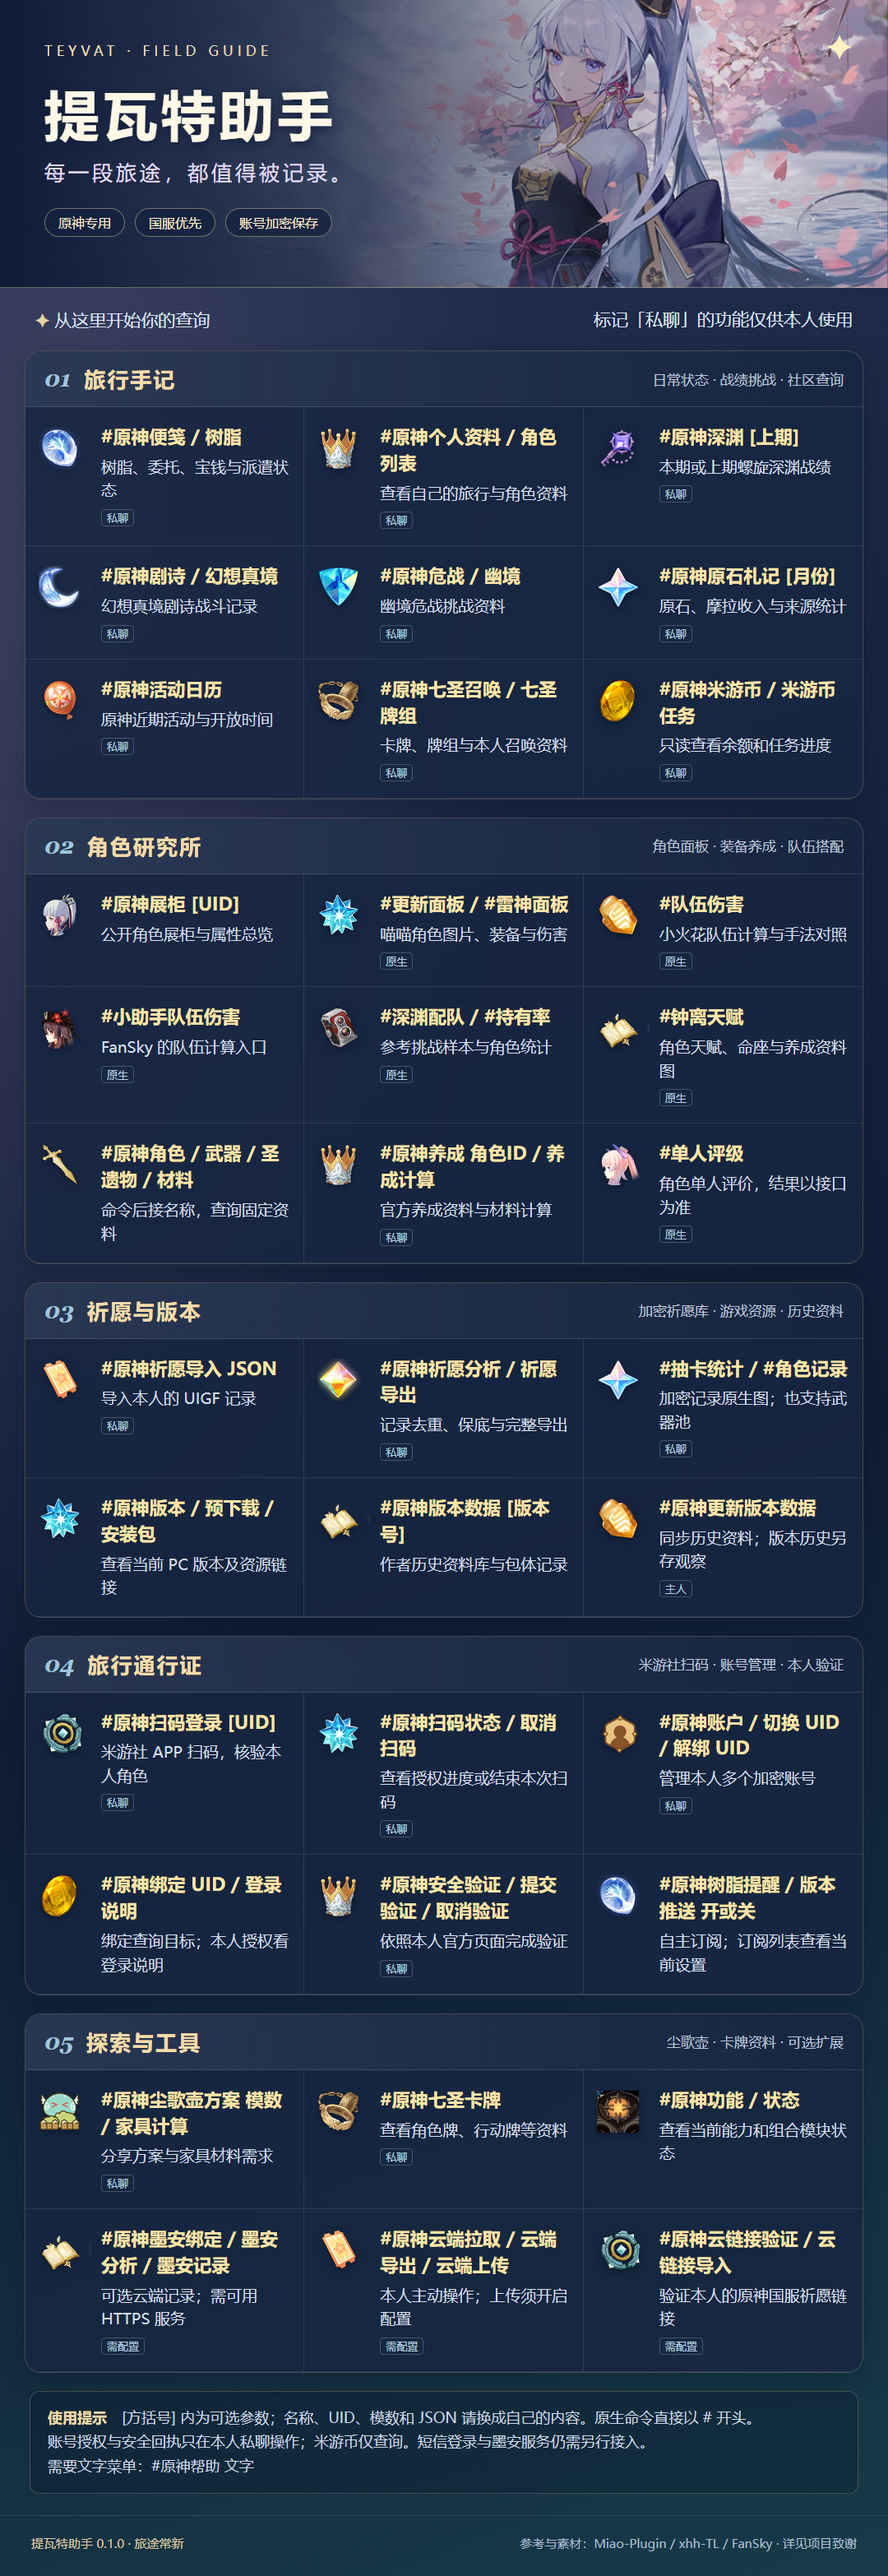
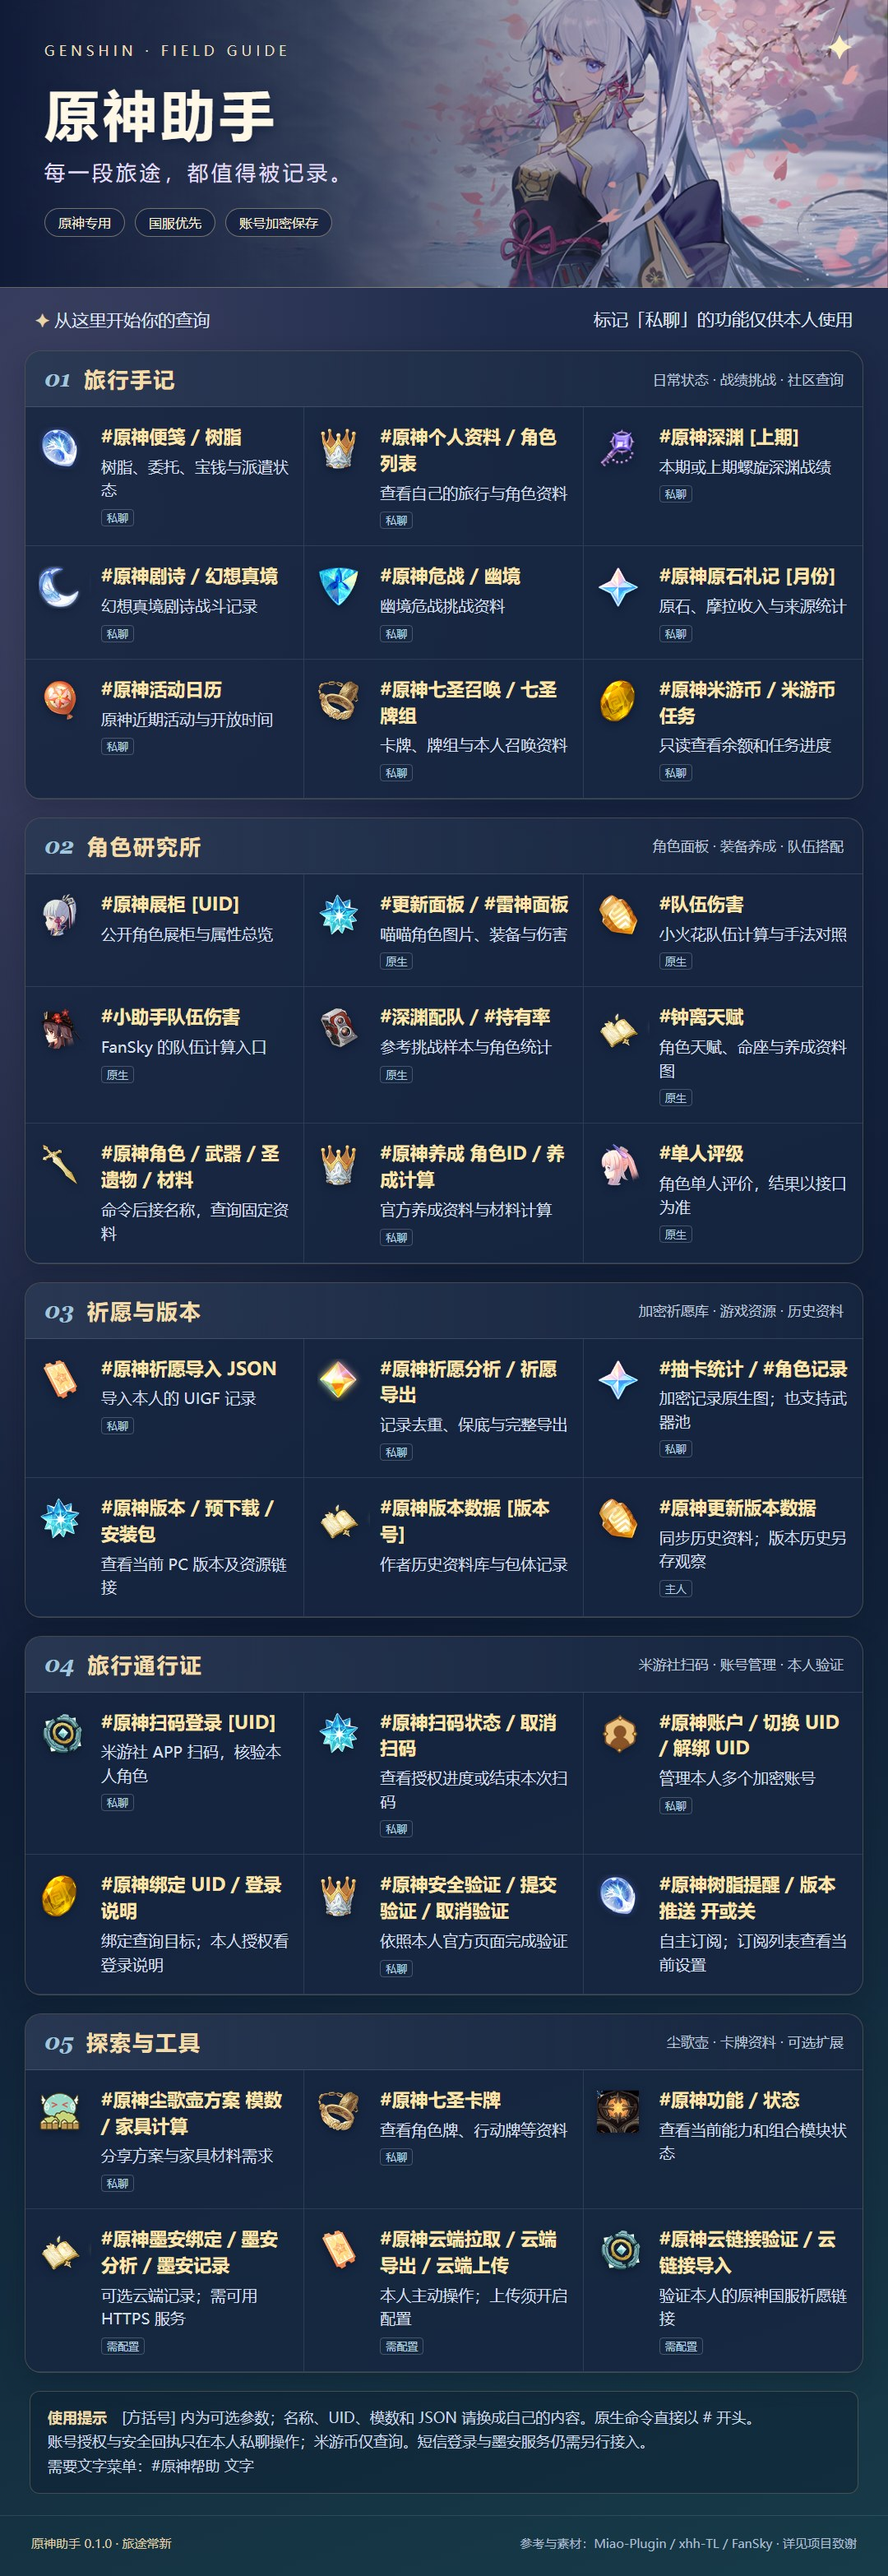
Rename plugin branding and switch SGS commands to #sgs

diff --git a/index.js b/index.js
@@ -32,7 +32,7 @@ if(enabled){
   const GachaData=(await import('../miao-plugin/apps/gacha/GachaData.js')).default;
   installNativeGacha({Data,...createMiaoGachaMetadata({Character,Weapon,GachaData})});
   const hostRenderer=resolveHostPuppeteer((await import('../../lib/renderer/loader.js')).default);
-  const renderCard=createQueuedCardRenderer(createCardRenderer({botRoot:storageOptions.botRoot,getBrowser:()=>hostRenderer.browser,ensureBrowser:()=>hostRenderer.browserInit(),assetRoots:[path.join(root,'resources/ui')],bootstrapFile:path.join(root,'resources/ui/shell.html'),deliverBeforeCleanup:true,onMetrics:metrics=>globalThis.logger?.info?.('[Teyvat] 图片耗时：'+JSON.stringify(metrics))}),{botRoot:storageOptions.botRoot});
+  const renderCard=createQueuedCardRenderer(createCardRenderer({botRoot:storageOptions.botRoot,getBrowser:()=>hostRenderer.browser,ensureBrowser:()=>hostRenderer.browserInit(),assetRoots:[path.join(root,'resources/ui')],bootstrapFile:path.join(root,'resources/ui/shell.html'),deliverBeforeCleanup:true,onMetrics:metrics=>globalThis.logger?.info?.('[Genshin] 图片耗时：'+JSON.stringify(metrics))}),{botRoot:storageOptions.botRoot});
   const readHelp=createBundledHelpReader({root,defaultPrefix:'#原神'});
   const renderCachedHelp=createPublicHelpCache(renderCard);
   const renderHelp=card=>{const prefix=engine.config.read().prefix;if(prefix==='#原神'){const bytes=readHelp({prefix,private:card.private});if(!bytes)throw new CardRenderError('HELP_IMAGE_UNAVAILABLE');return bytes}return renderCachedHelp(card)};
@@ -43,10 +43,10 @@ if(enabled){
   const MysApi=(await import('../genshin/model/mys/mysApi.js')).default;
   installNativeAccountGuard({NoteUser:Runtime.prototype.NoteUser,MysInfo:Runtime.prototype.MysInfo,MysUser:Runtime.prototype.MysUser,MysApi});
   class TeyvatCommands extends Base{
-    constructor(){const p=engine.config.read().prefix.replace(/[.*+?^${}()|[\]\\]/g,'\\$&');super({name:'提瓦特助手',dsc:'原神独立核心',event:'message',priority:-8000,rule:[{reg:new RegExp('^'+p),fnc:'run',title:'原神专用助手',description:'#原神帮助：账户、便笺、挑战、展柜、资料、祈愿、版本与订阅'}]})}
+    constructor(){const p=engine.config.read().prefix.replace(/[.*+?^${}()|[\]\\]/g,'\\$&');super({name:'原神助手',dsc:'原神独立核心',event:'message',priority:-8000,rule:[{reg:new RegExp('^'+p),fnc:'run',title:'原神专用助手',description:'#原神帮助：账户、便笺、挑战、展柜、资料、祈愿、版本与订阅'}]})}
     init(){engine.subscriptions.start()}
-    async run(e){const result=await engine.handle({...e,text:e.msg,owner:String(e.user_id),privateChat:!e.group_id,imageReply:true});if(result.card){try{await sendCardReply(result,{event:e,render:result.card.type==='help'?renderHelp:renderCard,image:bytes=>globalThis.segment.image(bytes),buildCards:()=>[buildHelpCard({prefix:engine.config.read().prefix})]});return true}catch(error){const failure=error instanceof CardReplyError?error.cause:error;globalThis.logger?.warn?.('[Teyvat] 图片处理失败：'+(failure instanceof CardRenderError||failure instanceof CardRenderQueueError?failure.code:'SEND_OR_VIEW_FAILED'));if(error instanceof CardReplyError){await e.reply('已发送 '+error.sent+'/'+error.total+' 页，其余图片未能生成；原命令末尾加「文字」可查看全文。');return true}await e.reply('图片暂未生成，先显示文字；也可发送 #原神帮助 文字。')}}if(result.image){await e.reply([result.text,globalThis.segment?.image?.(result.image)||result.image]);if(result.qrSession)void engine.login.wait(String(e.user_id),result.qrSession,{privateChat:true}).then(async r=>{if(r.status==='Confirmed')await e.reply('米游社扫码及本人国服角色验证成功，账号凭据已AES加密保存：'+r.accounts.map(a=>a.uid).join('、')+'。');else if(!r.ok)await e.reply(r.message)}).catch(()=>{})}else if(result.file){if(!e.friend?.sendFile)await e.reply('协议端不支持私聊文件发送；请使用本地CLI export。');else {if(result.text)await e.reply(result.text);const upload=privateFileUpload(result.file.data,result.file.name);await e.friend.sendFile(upload.buffer,upload.name)}}else if(result.handled)await e.reply(result.text);return result.handled}
+    async run(e){const result=await engine.handle({...e,text:e.msg,owner:String(e.user_id),privateChat:!e.group_id,imageReply:true});if(result.card){try{await sendCardReply(result,{event:e,render:result.card.type==='help'?renderHelp:renderCard,image:bytes=>globalThis.segment.image(bytes),buildCards:()=>[buildHelpCard({prefix:engine.config.read().prefix})]});return true}catch(error){const failure=error instanceof CardReplyError?error.cause:error;globalThis.logger?.warn?.('[Genshin] 图片处理失败：'+(failure instanceof CardRenderError||failure instanceof CardRenderQueueError?failure.code:'SEND_OR_VIEW_FAILED'));if(error instanceof CardReplyError){await e.reply('已发送 '+error.sent+'/'+error.total+' 页，其余图片未能生成；原命令末尾加「文字」可查看全文。');return true}await e.reply('图片暂未生成，先显示文字；也可发送 #原神帮助 文字。')}}if(result.image){await e.reply([result.text,globalThis.segment?.image?.(result.image)||result.image]);if(result.qrSession)void engine.login.wait(String(e.user_id),result.qrSession,{privateChat:true}).then(async r=>{if(r.status==='Confirmed')await e.reply('米游社扫码及本人国服角色验证成功，账号凭据已AES加密保存：'+r.accounts.map(a=>a.uid).join('、')+'。');else if(!r.ok)await e.reply(r.message)}).catch(()=>{})}else if(result.file){if(!e.friend?.sendFile)await e.reply('协议端不支持私聊文件发送；请使用本地CLI export。');else {if(result.text)await e.reply(result.text);const upload=privateFileUpload(result.file.data,result.file.name);await e.friend.sendFile(upload.buffer,upload.name)}}else if(result.handled)await e.reply(result.text);return result.handled}
   }
-  const native=await loadNativeProviders({root,config:engine.config.read()});nativeStatus=native.status;engine.nativeStatus=native.status;apps={TeyvatCommands,...native.apps};globalThis.logger?.info?.('[Teyvat] 原神模块 '+Object.keys(native.apps).length+' 个');
+  const native=await loadNativeProviders({root,config:engine.config.read()});nativeStatus=native.status;engine.nativeStatus=native.status;apps={TeyvatCommands,...native.apps};globalThis.logger?.info?.('[Genshin] 原神模块 '+Object.keys(native.apps).length+' 个');
 }
 export {apps};

diff --git a/docs/NATIVE-PROVIDERS.md b/docs/NATIVE-PROVIDERS.md
@@ -1,6 +1,6 @@
 # 原神组合功能、安装与实际验收
 
-账户统一使用提瓦特助手的 AES-256-GCM 库，包括 QQ、账号 UID、备注、Cookie 与滚动备份。私聊 `#原神扫码登录 [UID]` 或 `#原神绑定Cookie UID Cookie` 核验本人角色后保存；多号由 `#原神账户/切换/解绑` 管理。真实官方扫码创建/pending/本人确认及角色核验已成功，AES 保存了一个国服账户。不复制到原生明文 DB/YAML/Redis CK 池，也不使用原 genshin 的裸 `#绑定Cookie`、公共 CK、跨 QQ 账号绑定与 authkey 缓存入口。组合面板可使用公开缓存；个人只读查询通过当前 QQ 的临时会话对象从 AES 库读取。不保存 stoken；米游币余额/任务状态通过独立固定 GET 复用 AES Cookie，本人已授权只读实测成功。签到、点赞、分享、兑换及领奖执行不提供。
+账户统一使用原神助手的 AES-256-GCM 库，包括 QQ、账号 UID、备注、Cookie 与滚动备份。私聊 `#原神扫码登录 [UID]` 或 `#原神绑定Cookie UID Cookie` 核验本人角色后保存；多号由 `#原神账户/切换/解绑` 管理。真实官方扫码创建/pending/本人确认及角色核验已成功，AES 保存了一个国服账户。不复制到原生明文 DB/YAML/Redis CK 池，也不使用原 genshin 的裸 `#绑定Cookie`、公共 CK、跨 QQ 账号绑定与 authkey 缓存入口。组合面板可使用公开缓存；个人只读查询通过当前 QQ 的临时会话对象从 AES 库读取。不保存 stoken；米游币余额/任务状态通过独立固定 GET 复用 AES Cookie，本人已授权只读实测成功。签到、点赞、分享、兑换及领奖执行不提供。
 
 ## 外部源码快照
 
@@ -11,7 +11,7 @@
 | `plugins/xhh-TL` | https://gitee.com/longhengmu/xhh-TL | `1b5e5644c9351fcfd950acabf2c791060a7c44b6` | MIT，cchanlan |
 | `plugins/FanSky_Qs` | https://github.com/AFanSKyQs/FanSky_Qs | `86d002866114fa1dd1c765325fde621925938adc` | Apache-2.0，AFanSKyQs |
 
-以上源码由用户直接安装在 bot，保留原仓库、版权通知与全部资源，不打包进提瓦特助手 GitHub。新插件包含原创选择器、账户会话隔离、边界守卫、配置和文档。MATOOL 没有可核验许可证，不复制其代码或模板；GamePush 的原神版本/包体协议由独立核心访问 HoYoPlay/Sophon，本次不安装其其他游戏模块。本机包体观察历史已实现，远端完整历史数据库仍待实现，不能声称与上游全部功能等价。
+以上源码由用户直接安装在 bot，保留原仓库、版权通知与全部资源，不打包进原神助手 GitHub。新插件包含原创选择器、账户会话隔离、边界守卫、配置和文档。MATOOL 没有可核验许可证，不复制其代码或模板；GamePush 的原神版本/包体协议由独立核心访问 HoYoPlay/Sophon，本次不安装其其他游戏模块。本机包体观察历史已实现，远端完整历史数据库仍待实现，不能声称与上游全部功能等价。
 
 genshin 来源核验：官方 Miao-Yunzai `40cc2103efba1fbb279b768e3f5345d45372d357` 根 LICENSE 为 GPL-3.0，其受版本管理的 `plugins/genshin` 419 个文件与上述独立仓库 420 个文件中有 416 个 Git blob 完全相同。可复核 `model/gsCfg.js`=`f5dc01aa70491a153decc8f935be926244e74444`、`model/base.js`=`51621158e752f55fd5e2a7077138a9d2bb8b1f6c`、`model/mys/NoteUser.js`=`104b191d4acb69a6de83839b8be0f20298ab5de8`。这提供原核心的 GPL 出处证据，不能推断独立仓库所有新增文件自动获得宿主许可。更严格的可再分发方案是从 Miao-Yunzai GPL 快照取其原 genshin 目录，并使用原创加载器；本项目不再分发这些文件。TRSS 官方 README 推荐 `#安装genshin` 与 `#安装miao-plugin`，但安装说明不是新增文件的许可证。
 
@@ -32,7 +32,7 @@ genshin 来源核验：官方 Miao-Yunzai `40cc2103efba1fbb279b768e3f5345d45372d
 
 1. 在 bot 暂停或隔离目录内取得上表固定源码快照，检查 commit 与原 LICENSE；资源保持原目录名。
 2. 定向解决上述实际缺失依赖，保持宿主数据库与原有机器人插件配置。
-3. 从宿主根执行 `node plugins/Teyvat-Plugin/scripts/provider-settings.mjs --bot-root BOT_ROOT` 查看计划（把 BOT_ROOT 替换为本机宿主根目录），再加 `--apply` 写入设置。该脚本不启动源码、不发网络请求、不输出凭证。
+3. 从宿主根执行 `node plugins/Genshin-Plugin/scripts/provider-settings.mjs --bot-root BOT_ROOT` 查看计划（把 BOT_ROOT 替换为本机宿主根目录），再加 `--apply` 写入设置。该脚本不启动源码、不发网络请求、不输出凭证。
 4. 每个外部根 `index.js` 替换为原创 `export const apps = {};`，原内容备份为 `index.teyvat-original.js.txt`。这样外部顶层不会重复注册命令。当前选择器从固定快照导入 miao 9 类、genshin 13 类、小火花 9 类和 FanSky BotEntry 1 类，共 32 类，并排除下述原生凭据入口。
 5. 只有各源实际导入成功后才在 `config/local.json` 启用 `providers.miao/genshin/xhh/fanSky`。`loadNativeProviders` 返回 `loaded/partial/error/missing/disabled` 与逐 app 的错误码；`partial` 不应当成完整成功。
 6. 完整重启 bot，读取启动日志、导入结果、规则表、任务表后再做真实 QQ 交互验收。

diff --git a/README.md b/README.md
@@ -1,6 +1,8 @@
-# 提瓦特助手 · Teyvat-Plugin
+# 原神助手 · Genshin-Plugin
 
-Bot 中 `#原神帮助` 默认发送插画分类图，保留常用命令、本人私聊标记及需配置的功能。发送 `#原神帮助 文字` 查看文字版。图片使用宿主共用浏览器的独立临时上下文生成并以内存 Buffer 发送；失败时回退文字，CLI 与独立 API 默认仍返回文字。素材来源与图片边界见 [图片界面](docs/IMAGE-UI.md)。
+项目仓库：[719083594/Genshin-Plugin](https://github.com/719083594/Genshin-Plugin)。默认命令继续使用 `#原神`。
+
+Bot 中 `#原神帮助` 默认直接读取并校验随包发布的插画分类图，保留常用命令、本人私聊标记及需配置的功能，无需启动浏览器。发送 `#原神帮助 文字` 查看文字版。自定义前缀通过宿主共用浏览器的独立临时上下文生成图片，并以内存 Buffer 发送；失败时回退文字，CLI 与独立 API 默认仍返回文字。素材来源与图片边界见 [图片界面](docs/IMAGE-UI.md)。
 
 原神专用 Node.js 插件，国服优先。独立核心提供账户隔离、加密授权、公开展柜、个人记录请求、资料、本地祈愿和用户订阅；TRSS/云崽可组合原喵喵、小火花、FanSky 与 genshin 的原神模块。
 
@@ -40,7 +42,7 @@ node cli.mjs export YOUR_QQ UID OUTPUT.json
 
 ## TRSS/云崽组合
 
-放入宿主 `plugins/Teyvat-Plugin`，把实例 `config/local.json` 的 `adapter` 设置为 `yunzai`。外部源保持原目录名与原许可，原根入口改为独立空 apps 导出，选择器直接导入已审计模块，避免重复注册与原入口自动初始化。依赖、设置脚本、首次完整重启与真实命令验收见 [组合安装说明](docs/NATIVE-PROVIDERS.md)。
+放入宿主 `plugins/Genshin-Plugin`，把实例 `config/local.json` 的 `adapter` 设置为 `yunzai`。外部源保持原目录名与原许可，原根入口改为独立空 apps 导出，选择器直接导入已审计模块，避免重复注册与原入口自动初始化。依赖、设置脚本、首次完整重启与真实命令验收见 [组合安装说明](docs/NATIVE-PROVIDERS.md)。
 
 `providers.miao/genshin/xhh/fanSky` 默认关闭，只有安装并核对加载结果后才启用。选择器返回 `loaded/partial/error/missing/disabled`；开关 true 不等于导入成功。喵喵使用 `#喵喵帮助`，小火花队伍计算使用 `#队伍伤害`，FanSky 对照入口使用 `#小助手队伍伤害`。原生 Cookie/UID 写库、公共 CK 和 authkey 缓存入口停用；组合从当前 QQ 的 AES 账户只在本次处理内取得临时读对象，不复制到原生 DB 或 Redis CK 池。
 
@@ -55,6 +57,8 @@ node cli.mjs export YOUR_QQ UID OUTPUT.json
 QQ、账号 UID、备注、Cookie 与账户滚动备份采用 AES-256-GCM 加密，个人墨安 Key、整份独立祈愿和订阅路由/去重状态也加密保存。祈愿文件名以密钥和 QQ/UID 对应的 AAD 计算 HMAC-SHA256，不在路径暴露 QQ/UID。旧独立祈愿和订阅在启动/读取时迁移加密，回验后清理确认未变的旧文件，失败保留并报错。
 
 新增原生缓存保护覆盖 miao 原神 PlayerData/旧 UserData、札记 NoteData、FanSky 面板/成就宝箱榜文件、xhh resin_timer，以及列明的角色榜、收藏、用户偏好、冷却和小火花 Redis 命名空间；正文与受控 Redis 键/成员/分数全加密，文件路径隐藏账号标识，原生凭据字段不存入缓存。适配器已部署并加载，真实 Redis Lua 合成迁移验收通过；具体范围和旧 Redis 原子迁移要求见 [组合说明](docs/NATIVE-PROVIDERS.md)。账户桥与缓存适配不是任意第三方代码的文件沙箱，未审计的新路径不自动获得相同保证。
+
+改名时须完整保留原实例的 `config/local.json`、加密数据与备份，再将插件目录调整为 `plugins/Genshin-Plugin`。内部 `Teyvat` API 导出、`TEYVAT_ACCOUNT_KEY` 环境变量、AES 存储标识和账户文件格式保持兼容，不要为改名重新生成密钥。
 
 随机密钥留在被 Git 忽略的 `config/local.json`，保存密钥才能解密。原生账号写库和全局 CK 池停用，临时查询授权在处理结束后失效。私聊文件使用内存上传；用户显式 CLI export 产生的明文 UIGF 是主动交换例外。所有实例数据不提交 GitHub。
 

diff --git a/docs/VERIFICATION.md b/docs/VERIFICATION.md
@@ -1,4 +1,4 @@
-# 提瓦特助手部署验收
+# 原神助手部署验收
 
 验收日期：2026-10-07，TRSS/云崽、Node.js 24、Redis 7。本文不含账号标识、登录凭据、服务器地址或实例密钥。公开来源与参考项目列于 [致谢](CREDITS.md)，逐项功能差异列于 [功能清单](FEATURES.md)。
 
